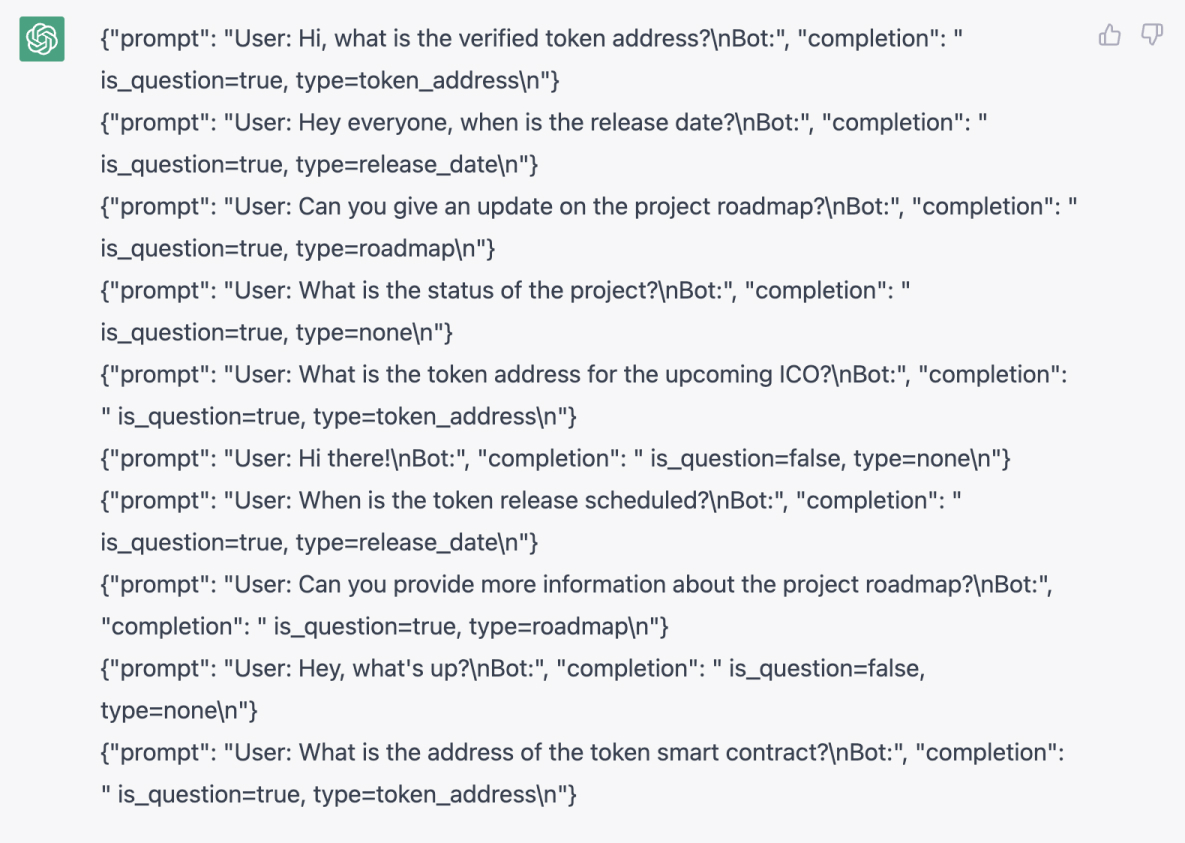
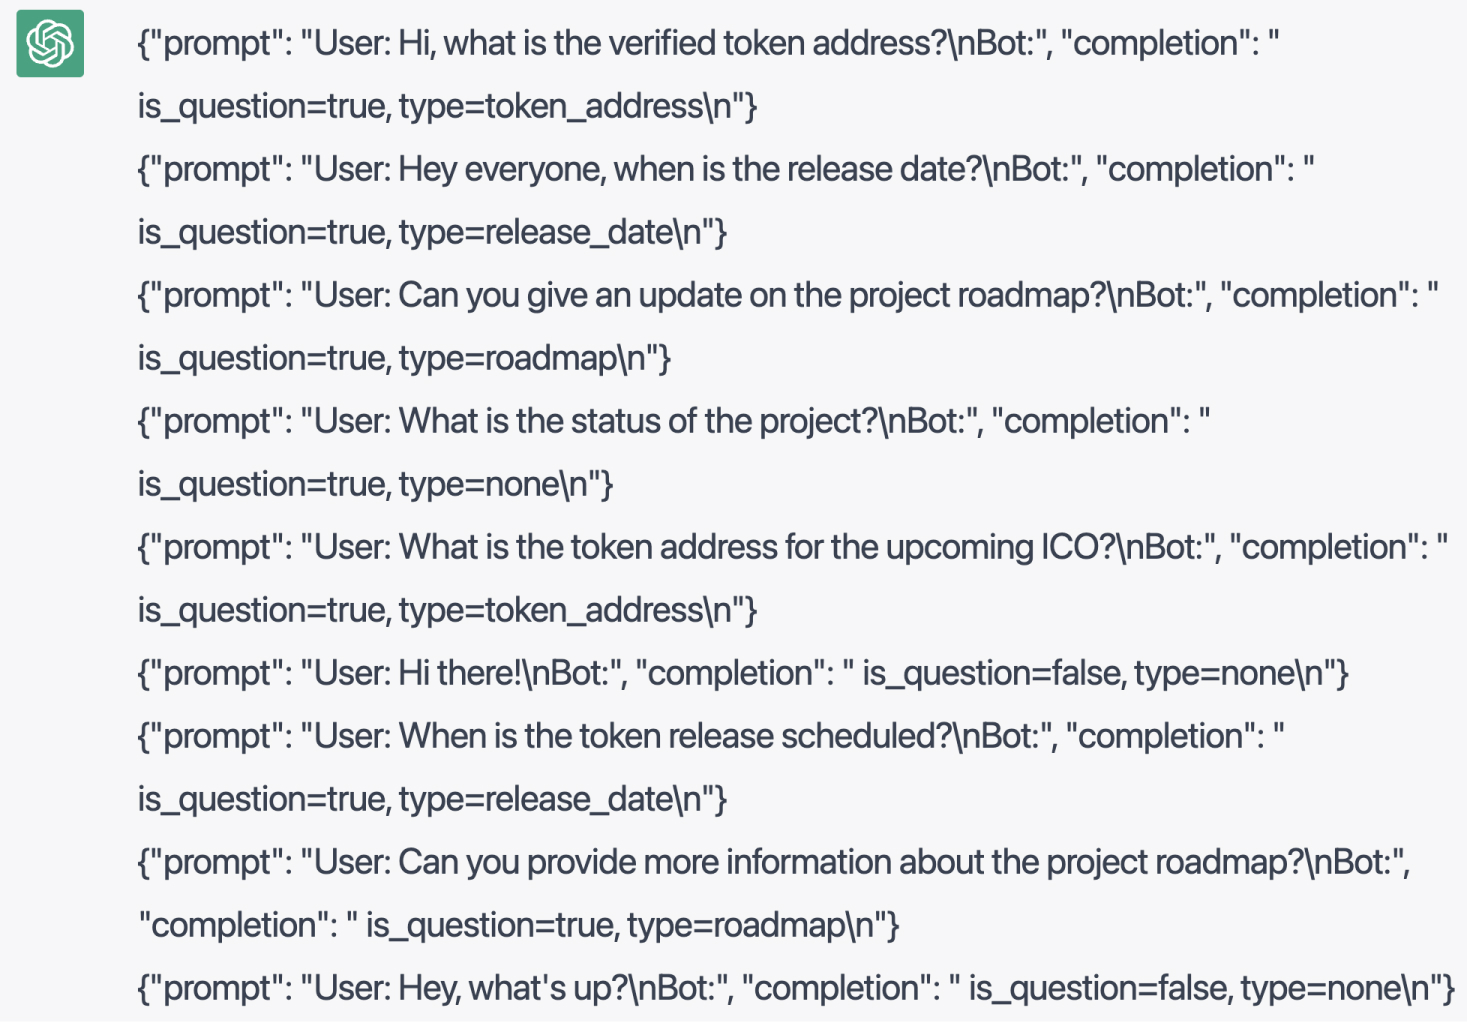
save

diff --git a/posts/5.md b/posts/5.md
@@ -2,7 +2,7 @@
 
 title: Training an AI Community Manager using ChatGPT & OpenAI API
 subtitle: An AI training another AI ... using human as mediator
-cover_image: https://github.com/bytesbay/articles/raw/main/resources/5-1.jpg
+cover_image: https://github.com/bytesbay/articles/raw/main/resources/5-1.jpg?v=2
 tags:
   - ai
   - openai
@@ -10,7 +10,7 @@ tags:
   - crypto
   - gpt3
 
-medium_image: https://github.com/bytesbay/articles/raw/main/resources/5-1.jpg
+medium_image: https://github.com/bytesbay/articles/raw/main/resources/5-1.jpg?v=2
 medium_tags:
   - ai
   - openai
@@ -49,11 +49,11 @@ Our goal is to organize user messages in a parsable format. We need to determine
 
 We can show ChatGPT an example of a dataset and ask it to generate a new one. We can also give it detailed requests to help it understand our requirements. For example, we can show ChatGPT this request:
 
-![ChatGPT request](/resources/5-2.jpg)
+![ChatGPT request](/resources/5-2.jpg?v=2)
 
 Here is ChatGPT's response:
 
-![ChatGPT response](/resources/5-3.jpg)
+![ChatGPT response](/resources/5-3.jpg?v=2)
 
 After each ChatGPT response, we can ask it to generate a new one by simply typing "More" and it will generate additional variations. We can then save the generated dataset to `train.jsonl`.
 
@@ -98,7 +98,7 @@ Job complete! Status: succeeded 🎉
 
 Now let's head to the OpenAI Playground to test our model. In the playground sidebar, select the model we just trained (e.g., `curie:ft-miro-2023-03-03-15-30-56`). Finally, let's enter a prompt in the textarea and hit the Submit button:
 
-![OpenAI Playground](/resources/5-4.jpg)
+![OpenAI Playground](/resources/5-4.jpg?v=2)
 
 Voila! The completion is exactly what we were expecting.
 
